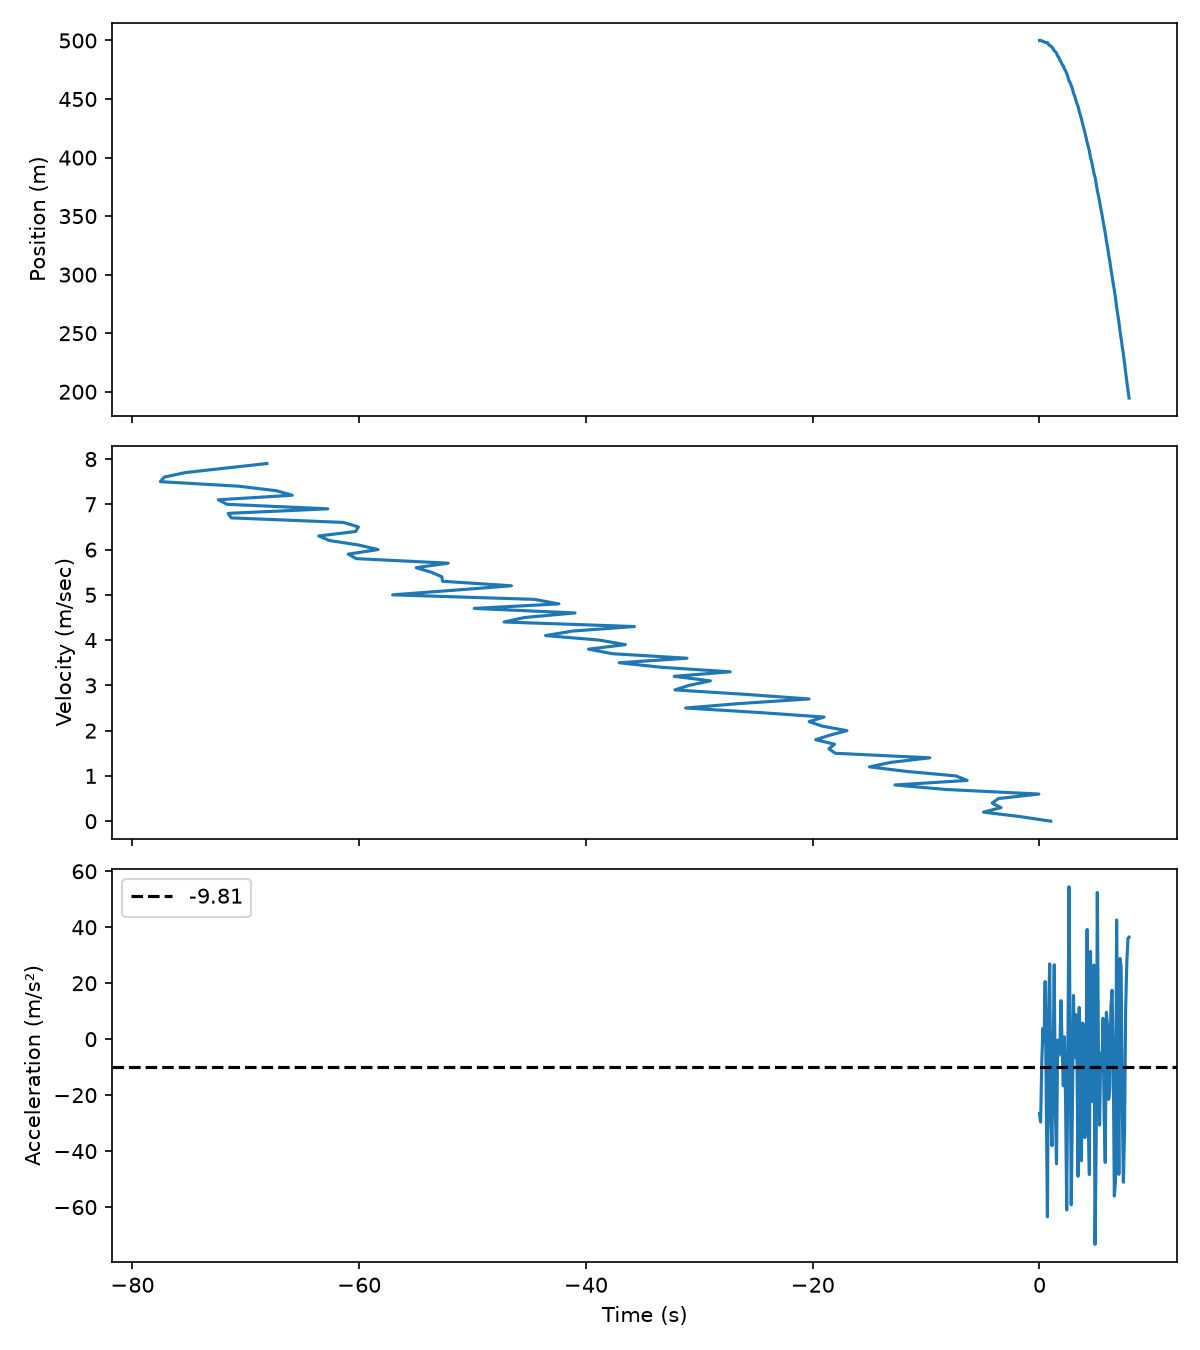
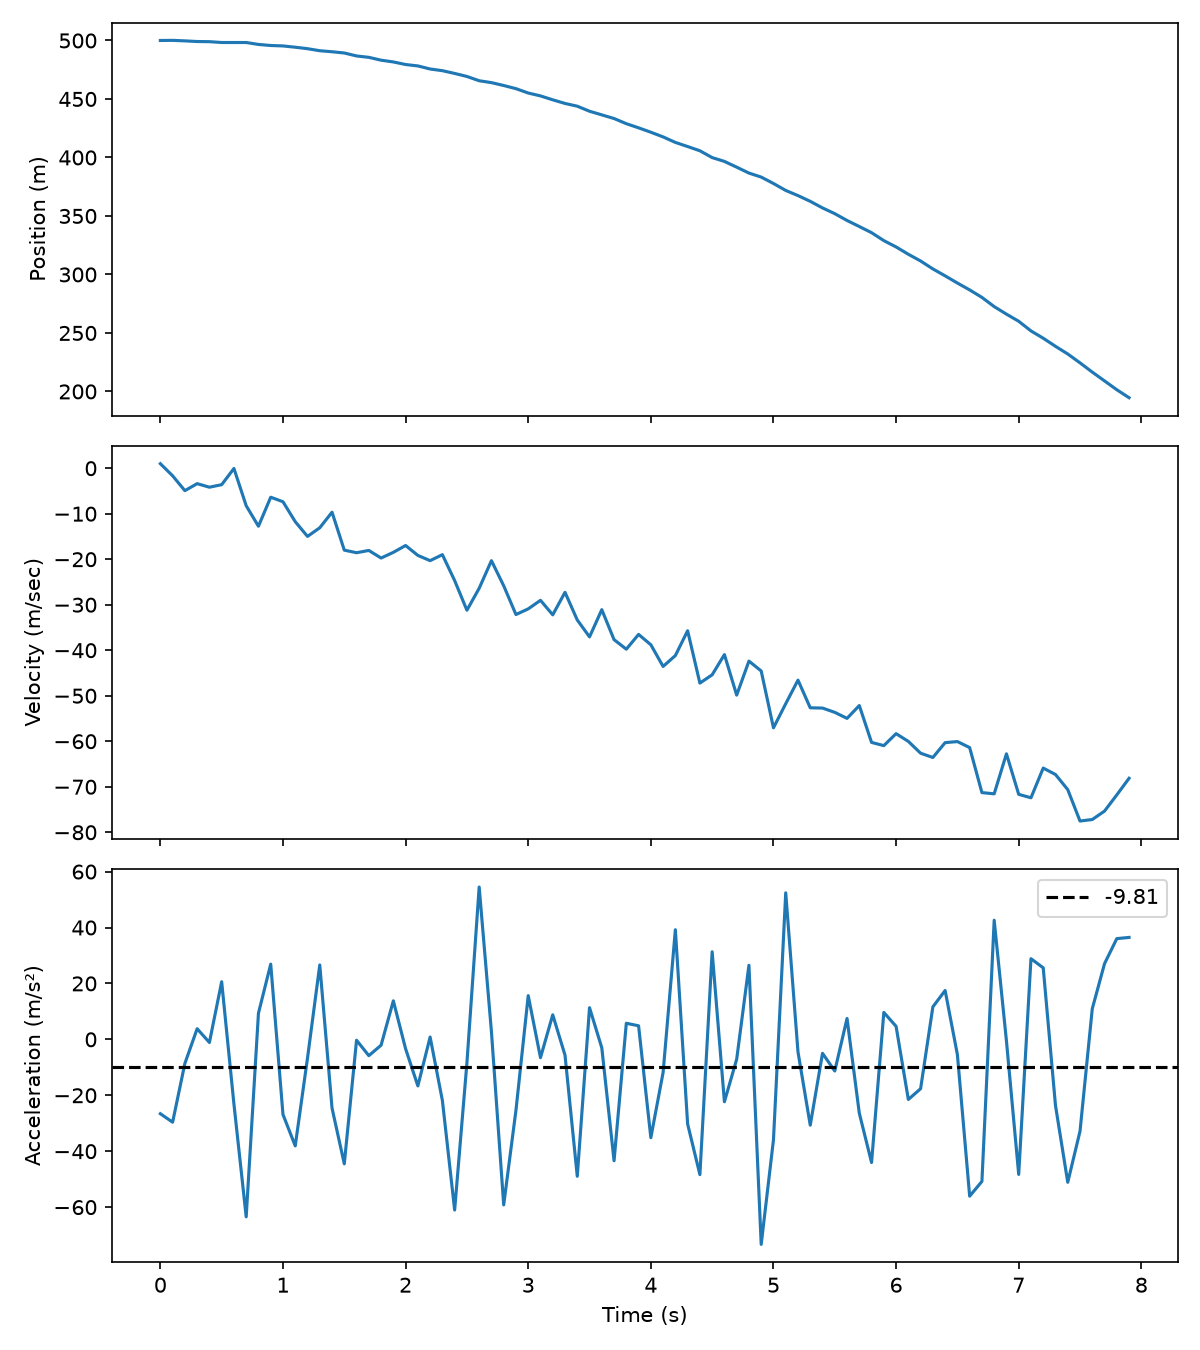
Minor changes in analysis.py

diff --git a/PW2/Lab A/analysis.py b/PW2/Lab A/analysis.py
@@ -24,7 +24,7 @@ fig, axes = plt.subplots(3,1,sharex=True, figsize = (8,9))
 axes[0].plot(t,y)
 axes[0].set_ylabel("Position (m)")
 
-axes[1].plot(v,t)
+axes[1].plot(t,v)
 axes[1].set_ylabel("Velocity (m/sec)")
 
 axes[2].plot(t,a)
